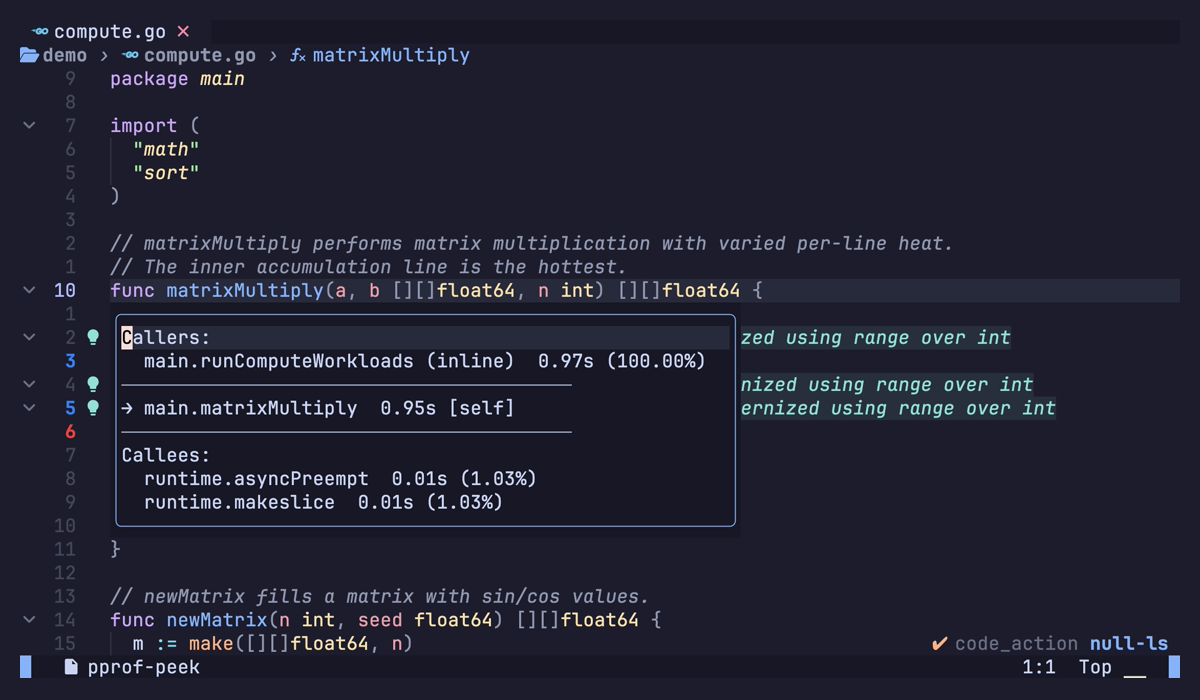
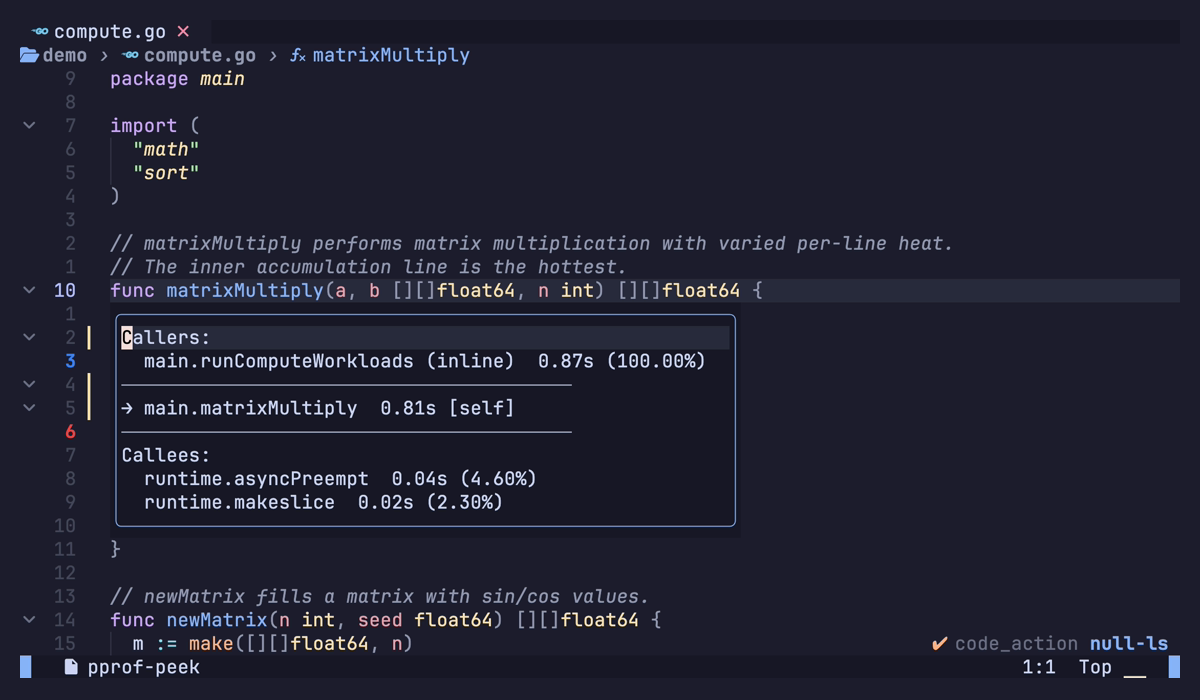
docs: modernize demo loops with range-over-integers (Go 1.22)
Replace C-style for loops with range-over-integer form where the loop
variable is unused or the bound is a plain integer. Regenerate profiles
and demo recordings.

diff --git a/doc/tapes/demo/allocate.go b/doc/tapes/demo/allocate.go
@@ -2,7 +2,7 @@ package main
 
 // directSliceAllocation allocates slices directly (tracked in memory profile).
 func directSliceAllocation(n int) {
-	for i := 0; i < n; i++ {
+	for range n {
 		// Direct make() calls are tracked in memory profile
 		_ = make([]byte, 4096)
 	}
@@ -22,7 +22,7 @@ func recursiveAllocation(depth int, size int) {
 // mapAllocationWorkload allocates map nodes directly.
 func mapAllocationWorkload(n int) {
 	m := make(map[int][]byte)
-	for i := 0; i < n; i++ {
+	for i := range n {
 		// Each assignment allocates a new key in the map and a byte slice
 		m[i] = make([]byte, 256)
 	}
@@ -32,7 +32,7 @@ func mapAllocationWorkload(n int) {
 // append() allocates new backing arrays.
 func sliceAppendWorkload(n int) {
 	s := make([][]byte, 0)
-	for i := 0; i < n; i++ {
+	for range n {
 		// append allocates new backing array as slice grows
 		s = append(s, make([]byte, 128))
 	}
@@ -45,7 +45,7 @@ func nestedAllocation(n int) {
 		Child *Node
 	}
 	var head *Node
-	for i := 0; i < n; i++ {
+	for range n {
 		// Each iteration allocates a new Node with embedded slice
 		head = &Node{
 			Data:  make([]byte, 512),
@@ -56,10 +56,10 @@ func nestedAllocation(n int) {
 
 // allocateStrings allocates string data through explicit byte slices.
 func allocateStrings(n int, strLen int) {
-	for i := 0; i < n; i++ {
+	for i := range n {
 		// Make a byte slice and convert to string (allocates string)
 		b := make([]byte, strLen)
-		for j := 0; j < len(b); j++ {
+		for j := range b {
 			b[j] = byte((i + j) % 256)
 		}
 		_ = string(b)
@@ -73,39 +73,39 @@ var globalAllocs []interface{} // Keeps allocations alive for heap profile
 func runAllocateWorkloads() {
 	globalAllocs = make([]interface{}, 0)
 
-	for pass := 0; pass < 5; pass++ {
+	for range 5 {
 		// Direct slice allocations with retention
 		tempSlices := make([][]byte, 50000)
-		for i := 0; i < 50000; i++ {
+		for i := range 50000 {
 			tempSlices[i] = make([]byte, 4096)
 		}
 		globalAllocs = append(globalAllocs, tempSlices)
 
 		// Map allocations with retention
 		tempMap := make(map[int][]byte)
-		for i := 0; i < 100000; i++ {
+		for i := range 100000 {
 			tempMap[i] = make([]byte, 256)
 		}
 		globalAllocs = append(globalAllocs, tempMap)
 
 		// Slice append allocations with retention
 		tempSliceAppend := make([][]byte, 0)
-		for i := 0; i < 50000; i++ {
+		for range 50000 {
 			tempSliceAppend = append(tempSliceAppend, make([]byte, 128))
 		}
 		globalAllocs = append(globalAllocs, tempSliceAppend)
 
 		// Large byte slices
-		for i := 0; i < 10000; i++ {
+		for range 10000 {
 			largeBytes := make([]byte, 1024)
 			globalAllocs = append(globalAllocs, largeBytes)
 		}
 
 		// String allocations from byte slices
 		stringData := make([]string, 0, 50000)
-		for i := 0; i < 50000; i++ {
+		for i := range 50000 {
 			b := make([]byte, 256)
-			for j := 0; j < len(b); j++ {
+			for j := range b {
 				b[j] = byte((i + j) % 256)
 			}
 			stringData = append(stringData, string(b))

diff --git a/doc/tapes/demo/compute.go b/doc/tapes/demo/compute.go
@@ -9,10 +9,10 @@ import (
 // The inner accumulation line is the hottest.
 func matrixMultiply(a, b [][]float64, n int) [][]float64 {
 	c := make([][]float64, n)
-	for i := 0; i < n; i++ {
+	for i := range n {
 		c[i] = make([]float64, n)
-		for k := 0; k < n; k++ {
-			for j := 0; j < n; j++ {
+		for k := range n {
+			for j := range n {
 				c[i][j] += a[i][k] * b[k][j]
 			}
 		}
@@ -23,9 +23,9 @@ func matrixMultiply(a, b [][]float64, n int) [][]float64 {
 // newMatrix fills a matrix with sin/cos values.
 func newMatrix(n int, seed float64) [][]float64 {
 	m := make([][]float64, n)
-	for i := 0; i < n; i++ {
+	for i := range n {
 		m[i] = make([]float64, n)
-		for j := 0; j < n; j++ {
+		for j := range n {
 			m[i][j] = math.Sin(seed + float64(i)*0.1 + float64(j)*0.05)
 		}
 	}
@@ -50,9 +50,9 @@ func sieveOfEratosthenes(limit int) []bool {
 
 // sortWorkload performs tight refill and sort operations.
 func sortWorkload(n, repetitions int) {
-	for r := 0; r < repetitions; r++ {
+	for range repetitions {
 		data := make([]float64, n)
-		for i := 0; i < n; i++ {
+		for i := range n {
 			data[i] = float64(n - i)
 		}
 		sort.Float64s(data)
@@ -62,7 +62,7 @@ func sortWorkload(n, repetitions int) {
 // fibonacciIterative computes fibonacci with a single hot line for accumulation.
 func fibonacciIterative(n int) uint64 {
 	a, b := uint64(0), uint64(1)
-	for i := 0; i < n; i++ {
+	for range n {
 		a, b = b, a+b
 	}
 	return a
@@ -70,7 +70,7 @@ func fibonacciIterative(n int) uint64 {
 
 // trigWorkload calls three transcendental functions on separate lines for graduated heat.
 func trigWorkload(iterations int) {
-	for i := 0; i < iterations; i++ {
+	for i := range iterations {
 		x := float64(i) / 100.0
 		_ = math.Sin(x)
 		_ = math.Cos(x)
@@ -81,7 +81,7 @@ func trigWorkload(iterations int) {
 // runComputeWorkloads is the entry point for CPU-intensive workloads, called from main.
 // It runs multiple passes with larger workloads to accumulate enough profile data for visualization.
 func runComputeWorkloads() {
-	for pass := 0; pass < 20; pass++ {
+	for range 20 {
 		// Matrix multiplication with large matrices
 		a := newMatrix(512, 1.0)
 		b := newMatrix(512, 2.0)
